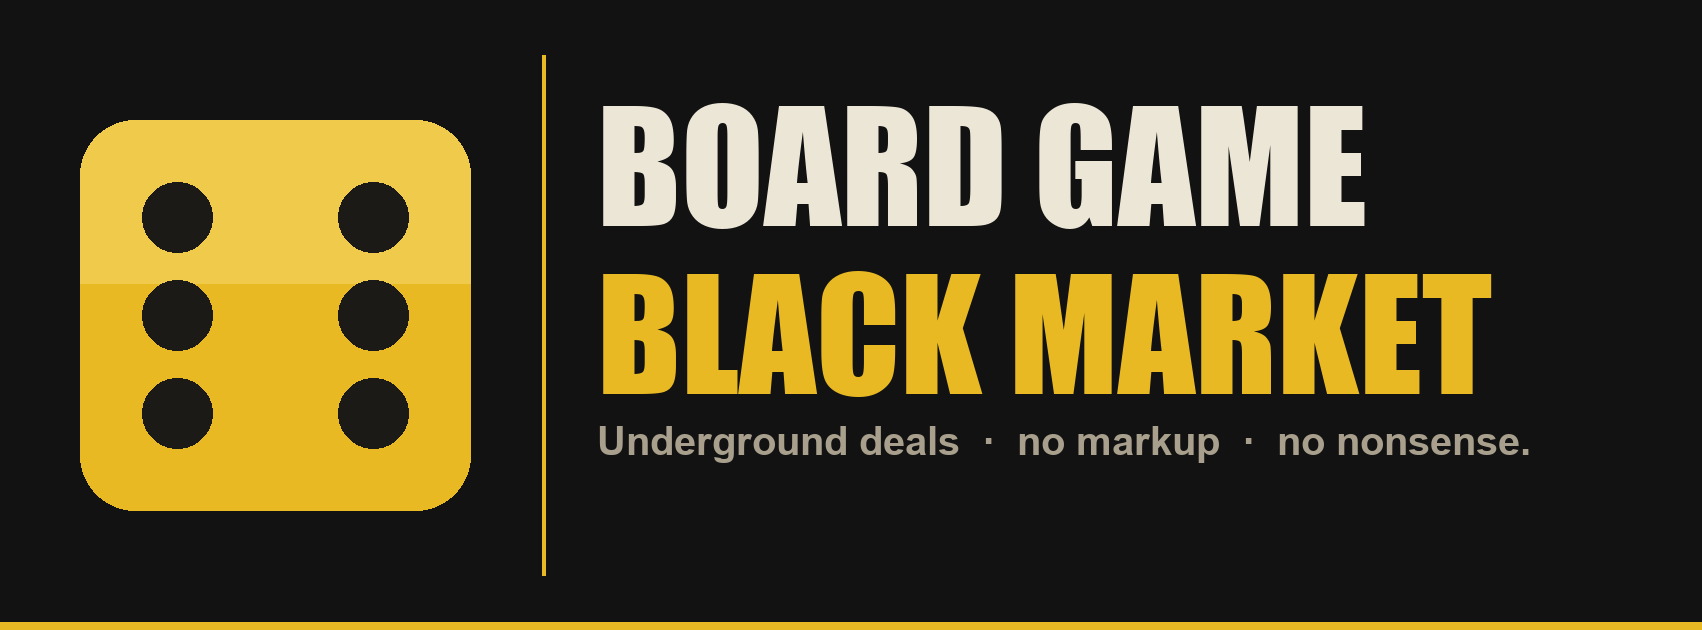
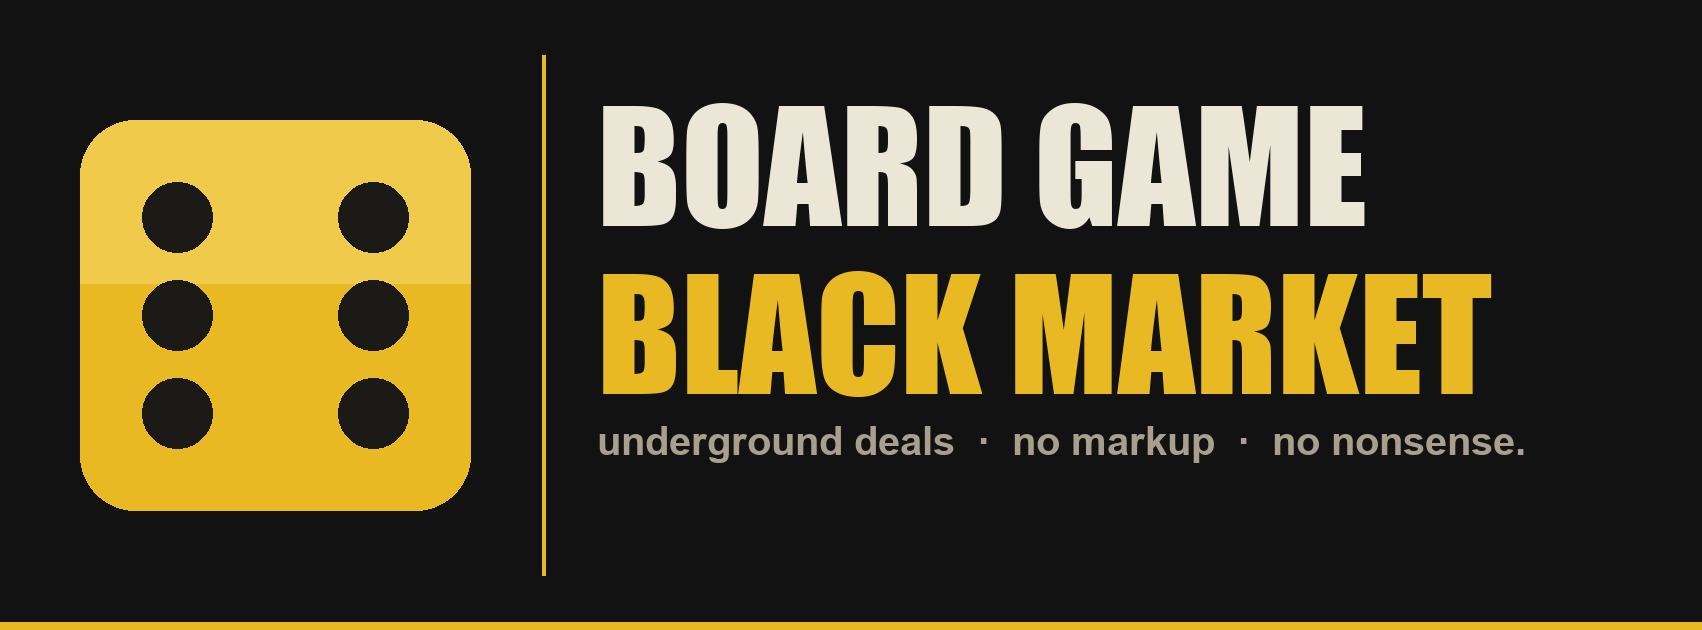
Fix cover photo tagline: lowercase u in underground

Changed region(s): [[0.3425, 0.6635, 0.7162, 0.754], [0.7474, 0.6635, 0.9031, 0.7238]]

diff --git a/scripts/generate_branding.py b/scripts/generate_branding.py
@@ -106,7 +106,7 @@ def make_cover() -> None:
     ty = 72
     draw.text((tx, ty),            "BOARD GAME",   fill=TEXT,  font=tf)
     draw.text((tx, ty + 168),      "BLACK MARKET", fill=GOLD,  font=stf)
-    draw.text((tx, ty + 168 + 178), "Underground deals  ·  no markup  ·  no nonsense.",
+    draw.text((tx, ty + 168 + 178), "underground deals  ·  no markup  ·  no nonsense.",
               fill=MUTED, font=tgf)
 
     out = BRANDING_DIR / "facebook-cover.png"